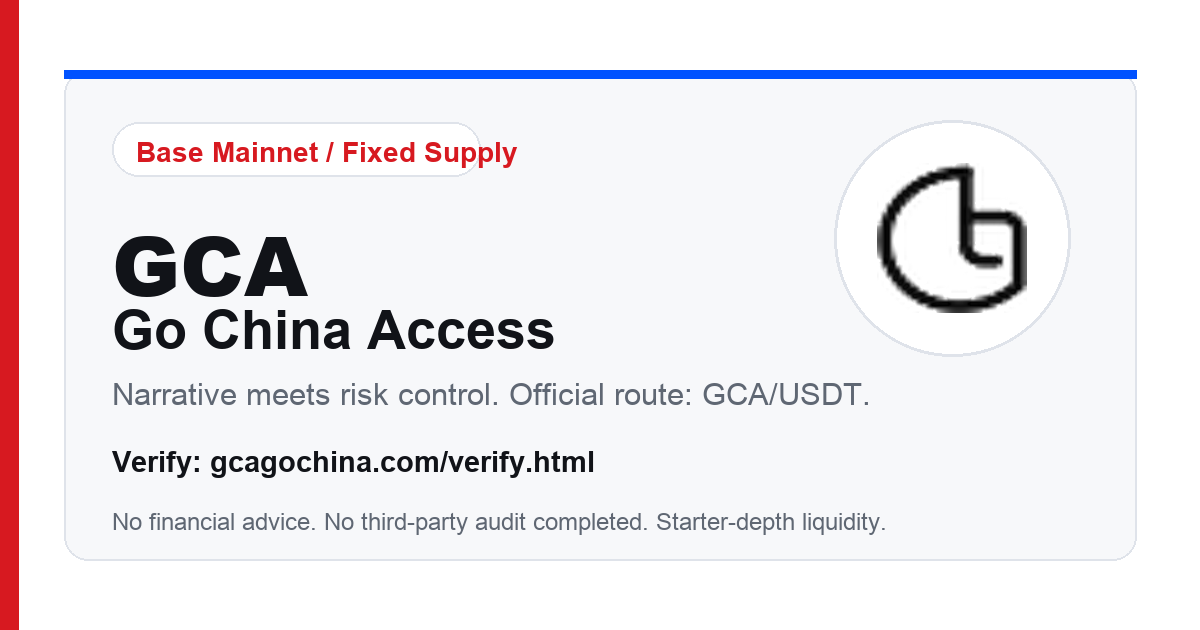
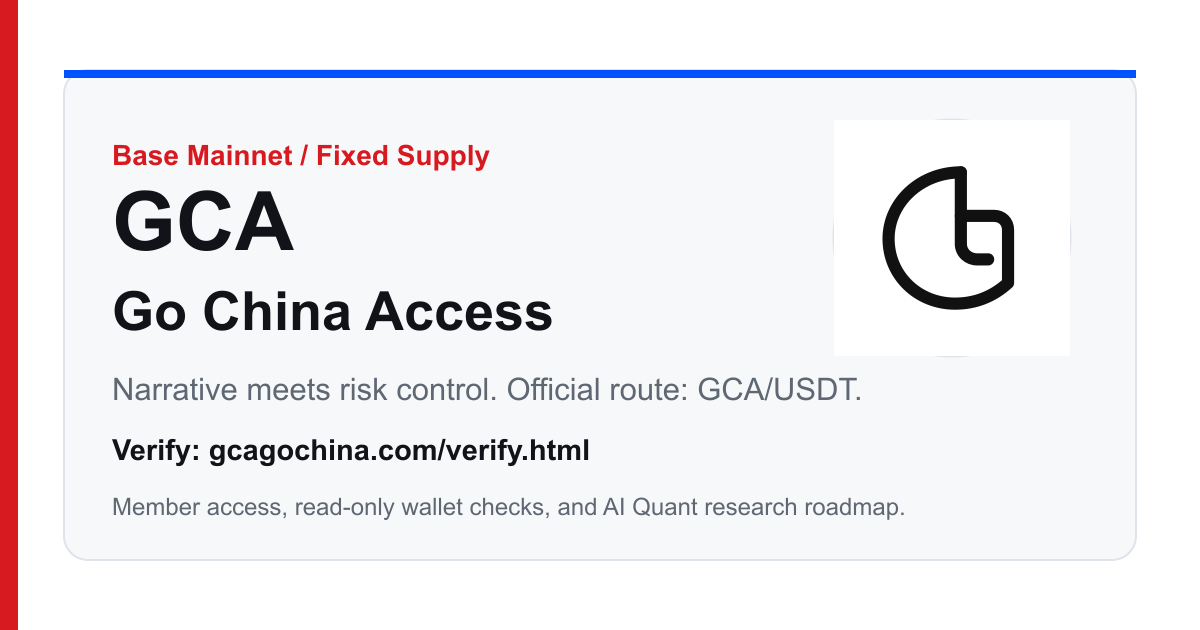
Refine public GCA site messaging

diff --git a/site/status.html b/site/status.html
@@ -389,14 +389,14 @@
           <span class="value good">Approved 2026-05-11</span>
         </div>
         <div class="fact">
-          <span class="label">BaseScan Profile</span>
-          <span class="value pending">Returned 2026-05-23; Handoff and Chinese owner flow ready for one [email redacted] submission</span>
+          <span class="label">Reviewer Package</span>
+          <span class="value good">Prepared with domain email evidence</span>
         </div>
       </section>
 
       <section class="section two" aria-label="Verification status">
         <div class="panel">
-          <h2>Completed</h2>
+          <h2>Live Now</h2>
           <div class="list">
             <div class="row"><span>Contract source verified on BaseScan</span><strong class="good">Done</strong></div>
             <div class="row"><span>Deployer-wallet ownership verified on BaseScan</span><strong class="good">Done</strong></div>
@@ -427,32 +427,29 @@
         </div>
 
         <div class="panel">
-          <h2>Still Pending</h2>
+          <h2>Next Buildout</h2>
           <div class="list">
-            <div class="row"><span>BaseScan public token profile publication</span><strong class="pending">Returned again 2026-05-23; BaseScan Handoff, Chinese owner flow, Tim Chen profile, and domain email evidence are ready for one owner resubmission from [email redacted]</strong></div>
+            <div class="row"><span><a href="basescan-handoff.html">BaseScan reviewer handoff</a></span><strong class="good">Prepared with official contact, market, supply, and evidence links</strong></div>
             <div class="row"><span><a href="tim-chen.html">Tim Chen professional profile</a></span><strong class="good">Published</strong></div>
-            <div class="row"><span><a href="domain-email.html">Domain email setup plan</a></span><strong class="pending">Published with public evidence checklist; [email redacted] is active. 2026-05-30 DNS snapshot: MX/SPF/DKIM/DMARC present.</strong></div>
-            <div class="row"><span><a href="domain-email-evidence.html">Domain email evidence checklist</a></span><strong class="pending">Published; private owner proof is retained for one clean BaseScan resubmission</strong></div>
-            <div class="row"><span><a href="basescan-preflight.html">BaseScan preflight gate</a></span><strong class="pending">Published; ready after domain email DNS, evidence packet, public email switch, and snapshot alignment passed</strong></div>
-            <div class="row"><span><a href="basescan-handoff.html">BaseScan Handoff</a></span><strong class="pending">Published; copyable reviewer comment, basic information, evidence links, market, and supply fields are ready</strong></div>
-            <div class="row"><span><a href="zh-basescan-submit.html">中文 BaseScan 提交流程</a></span><strong class="pending">Published; owner-only browser checklist, no wallet transaction, approve, swap, or contract operation needed</strong></div>
-            <div class="row"><span><a href="daily-status.html">Daily status action queue</a></span><strong class="pending">Current queue shows <code>ownerActionQueue</code>, <code>filesStillUsingOldEmail</code> as 0 tracked files, and the required order before final BaseScan preflight.</strong></div>
-            <div class="row"><span><a href="basescan-remediation.html">BaseScan remediation DNS gate</a></span><strong class="pending"><code>[email redacted]</code> mailbox activation, DNS authentication, and inbound/outbound evidence are ready; BaseScan publication is still pending review</strong></div>
-            <div class="row"><span>10,000 GCA member benefit transfer</span><strong class="pending">Manual review and reserve-wallet processing only</strong></div>
-            <div class="row"><span>Live trading or finished research product</span><strong class="pending">Not enabled</strong></div>
+            <div class="row"><span><a href="domain-email.html">Domain email profile</a></span><strong class="good">[email redacted] active; 2026-05-30 DNS snapshot: MX/SPF/DKIM/DMARC present</strong></div>
+            <div class="row"><span><a href="domain-email-evidence.html">Domain email evidence checklist</a></span><strong class="good">Published for platform reviewers</strong></div>
+            <div class="row"><span><a href="basescan-preflight.html">BaseScan preflight page</a></span><strong class="good">Published with evidence order and owner flow</strong></div>
+            <div class="row"><span><a href="zh-basescan-submit.html">中文 BaseScan 提交流程</a></span><strong class="good">Published for owner-side browser submission</strong></div>
+            <div class="row"><span><a href="daily-status.html">Daily status action queue</a></span><strong class="good">Published with owner action queue and public email alignment checks</strong></div>
+            <div class="row"><span><a href="member-benefit-transfer.html">10,000 GCA member benefit workflow</a></span><strong class="good">Published for reviewed reserve-wallet handling</strong></div>
+            <div class="row"><span><a href="release-gates.html">Product release gates</a></span><strong class="good">Published for staged AI Quant Access rollout</strong></div>
             <div class="row"><span>Wallet warning state after Blockaid report</span><strong class="good">Owner observed no warning visible 2026-05-14</strong></div>
-            <div class="row"><span><a href="wallet-warning.html">Wallet warning evidence page</a></span><strong class="pending">Published</strong></div>
-            <div class="row"><span><a href="external-reviews.html">External review status page</a></span><strong class="pending">Active</strong></div>
-            <div class="row"><span>CoinGecko tracked listing</span><strong class="pending">Not submitted</strong></div>
-            <div class="row"><span>CoinMarketCap tracked listing</span><strong class="pending">Not submitted</strong></div>
-            <div class="row"><span>Third-party audit report</span><strong class="pending">Deferred</strong></div>
+            <div class="row"><span><a href="wallet-warning.html">Wallet warning evidence page</a></span><strong class="good">Published</strong></div>
+            <div class="row"><span><a href="external-reviews.html">External review status page</a></span><strong class="good">Active</strong></div>
+            <div class="row"><span><a href="listing-readiness.html">Tracked listing readiness</a></span><strong class="good">Prepared for future platform outreach</strong></div>
+            <div class="row"><span><a href="audit-readiness.html">Audit-readiness scope</a></span><strong class="good">Prepared for future vendor review</strong></div>
           </div>
         </div>
       </section>
 
       <section class="section panel" aria-labelledby="marketTitle">
         <h2 id="marketTitle">Official Market Route</h2>
-        <p class="note">The current official public trading route is the Base Mainnet Uniswap v4 GCA/USDT pool. Liquidity is starter-depth only, so trades can have high price impact and slippage.</p>
+        <p class="note">The current official public trading route is the Base Mainnet Uniswap v4 GCA/USDT pool. Use the official market page and DEX tools to confirm pool address, quoted output, and route details before interacting.</p>
         <div class="list">
           <div class="row">
             <span><a href="markets.html">Official market page</a></span>
@@ -484,11 +481,11 @@
         </div>
         <div class="panel">
           <h3>Owner Reserve</h3>
-          <p class="note">600,000,000 GCA is held in the disclosed owner reserve wallet. It is a normal owner-controlled wallet, not a lock, vesting contract, or multisig.</p>
+          <p class="note">600,000,000 GCA is held in the disclosed owner reserve wallet and can be tracked from the published reserve statement.</p>
         </div>
         <div class="panel">
-          <h3>Audit</h3>
-          <p class="note">Internal review is complete. No third-party audit has been completed, and audit quote requests were deferred by owner decision.</p>
+          <h3>Review Materials</h3>
+          <p class="note">Internal review, technical report materials, and audit-readiness scope are published for users, reviewers, and future vendors.</p>
         </div>
       </section>
 
@@ -506,17 +503,16 @@
         </div>
       </section>
 
-      <section class="section panel warning" aria-labelledby="riskTitle">
-        <h2 id="riskTitle">Public Claim Boundaries</h2>
-        <ul>
-          <li>Do not say the BaseScan token profile is approved until BaseScan publishes it.</li>
-          <li>Do not say GCA is externally audited unless an independent audit report exists.</li>
-          <li>Do not describe liquidity as deep, stable, or sufficient for large trades.</li>
-          <li>Do not describe the owner reserve as locked, vested, or multisig-controlled.</li>
-          <li>Do not claim price support, yield, return promises, platform revenue distribution, custody, or automatic live trading permission.</li>
-          <li>Do not describe holder credits, GCA Member status, or the 10,000 GCA member benefit as cash, income, reimbursement, or a way to bypass Web3 Radar risk controls.</li>
-          <li>Use the member benefit transfer runbook for manual reserve-transfer language; do not describe the 10,000 GCA member benefit as automatic or self-service claimable.</li>
-        </ul>
+      <section class="section panel" aria-labelledby="riskTitle">
+        <h2 id="riskTitle">Reviewer and Support Resources</h2>
+        <p class="note">Use these pages when a platform, wallet reviewer, community moderator, or holder asks for source verification, market route, reserve, member workflow, or contact evidence.</p>
+        <div class="actions">
+          <a class="button" href="reviewer-kit.html">Reviewer Kit</a>
+          <a class="button" href="technical-report.html">Technical Report</a>
+          <a class="button" href="audit-readiness.html">Audit Readiness</a>
+          <a class="button" href="reserve-statement.html">Reserve Statement</a>
+          <a class="button" href="support.html">Support</a>
+        </div>
       </section>
     </main>
 

diff --git a/site/index.html b/site/index.html
@@ -459,7 +459,7 @@
           <h1 id="title">GCA</h1>
           <p class="lead">Narrative meets risk control for China-facing Web3 intelligence.</p>
           <p class="lead">GCA is a fixed-supply ERC-20 token on Base Mainnet exploring a simple idea: turn the Go China macro narrative into a recognizable access layer for Web3 Radar-style quant research, liquidation replay, backtesting, risk alerts, ENTRY_READY signal review, and position sizing.</p>
-          <p class="lead">The token, verified contract, reserve wallet, starter liquidity, public account UI, read-only wallet balance verification, and D1 ledger writes for eligible 100 credits / GCA Member review are live. Trading tools and the 10,000 GCA member benefit remain gated by support review and manual reserve-wallet processing.</p>
+          <p class="lead">The token, verified contract, reserve wallet, official GCA/USDT route, public account UI, read-only wallet balance verification, and D1 ledger writes for eligible 100 credits / GCA Member review are live. The next buildout focuses on research modules, member service workflow, and staged product access.</p>
           <div class="actions">
             <a class="button primary" href="start.html">Start Here</a>
             <a class="button primary" href="verify.html">Verify GCA</a>
@@ -474,7 +474,7 @@
         </div>
 
         <aside class="hero-card" aria-label="GCA status">
-          <img class="hero-art" src="assets/gca-social-card.png" alt="GCA Go China Access social preview">
+          <img class="hero-art" src="assets/gca-social-card.png?v=20260603" alt="GCA Go China Access social preview">
           <div class="logo-row">
             <img src="assets/gca-logo.svg" alt="GCA token mark">
             <div>
@@ -534,7 +534,7 @@
           <div class="section-card">
             <div>
               <h3>Buy Or Check The Pool</h3>
-              <p class="note">Use the official GCA/USDT route on Base. Current liquidity is starter-depth only, so small trades and strict slippage controls are safer than large market orders.</p>
+              <p class="note">Use the official GCA/USDT route on Base and review the pool details, quoted output, and wallet confirmation screen before every swap.</p>
             </div>
             <div class="link-row">
               <a class="text-link" href="buy.html">Buy Guide</a>
@@ -559,7 +559,7 @@
           <div class="section-card">
             <div>
               <h3>GCA Member Review</h3>
-              <p class="note">For planned GCA Member review, prepare evidence for one wallet buying and continuously holding at least 1,000,000 GCA for 30 days. The 10,000 GCA member benefit requires review and is not automatic.</p>
+              <p class="note">For planned GCA Member review, prepare evidence for one wallet buying and continuously holding at least 1,000,000 GCA for 30 days. Approved member-benefit records are handled through the published review workflow.</p>
             </div>
             <div class="link-row">
               <a class="text-link" href="member-benefit.html">Member Benefit</a>
@@ -587,7 +587,7 @@
           <div class="section-card">
             <div>
               <h3>Project Updates</h3>
-              <p class="note">Follow the public narrative, campaign calendar, and publishing desk for GCA content. These materials are market education and project communication, not financial advice.</p>
+              <p class="note">Follow the public narrative, campaign calendar, and publishing desk for GCA project content, weekly Go China Radar updates, and member-access announcements.</p>
             </div>
             <div class="link-row">
               <a class="text-link" href="radar.html">Weekly Radar</a>
@@ -667,8 +667,8 @@
         </div>
         <div class="panel">
           <h2>Product Release Gates</h2>
-          <p class="note">GCA now has a live account intake and ledger-recording path for the GCA AI Quant Access roadmap. Users can submit an email and Base wallet, run backend read-only balance verification, and create eligible 100 credits / GCA Member review records. Any trading-related feature still must pass risk-control review plus simulation or testnet first.</p>
-          <p class="note" style="margin-top: 14px;">This utility roadmap does not include platform revenue distribution, return guarantees, custody, or automatic live trading permissions. Utility credits, GCA Member status, and the planned 10,000 GCA member benefit are account-level records for reports, backtests, risk warnings, reviews, calculators, education, member research notes, priority support, and member benefit review only; they are not cash, income, reimbursement, or trading permission, and they are not a reason to bypass risk controls.</p>
+          <p class="note">GCA now has a live account intake and ledger-recording path for the GCA AI Quant Access roadmap. Users can submit an email and Base wallet, run backend read-only balance verification, and create eligible 100 credits / GCA Member review records.</p>
+          <p class="note" style="margin-top: 14px;">The utility roadmap centers on reports, backtests, risk warnings, ENTRY_READY reviews, calculators, education, member research notes, priority support, GCA Member status records, and member benefit review. Trading-related modules follow staged release gates before any wider product launch.</p>
           <div class="actions">
             <a class="button" href="credits.html">Credits Catalog</a>
             <a class="button" href="operations.html">Operations Runbook</a>
@@ -721,7 +721,7 @@
             <p class="eyebrow">Market References</p>
             <h2 id="marketsTitle">Official GCA/USDT Route</h2>
           </div>
-          <p class="note">These links are provided for verification and discovery. The official public trading route is the GCA/USDT pool on Base. The pool is shallow, so trades can have high price impact and slippage. Liquidity is still starter liquidity only.</p>
+          <p class="note">These links are provided for verification and discovery. The official public trading route is the GCA/USDT pool on Base, with DEX tools available for checking quoted output, pool details, and market references.</p>
         </div>
         <div class="list">
           <div class="row">
@@ -754,7 +754,7 @@
       <section class="section two" id="trust" aria-label="Trust and transparency">
         <div class="panel">
           <h2>Security &amp; Transparency</h2>
-          <p class="note">The contract source is verified on BaseScan and the repository includes tests and an internal engineering review. Third-party audit quote requests were submitted to QuillAudits, Hacken, and OpenZeppelin on 2026-05-10, then deferred by owner decision. No third-party audit has been completed.</p>
+          <p class="note">The contract source is verified on BaseScan and the repository includes tests, technical notes, and an internal engineering review. Audit-readiness materials remain available for future independent review when the project chooses to proceed.</p>
           <div class="grid" style="margin-top: 16px;">
             <div class="phase">
               <h3>Fixed Supply</h3>
@@ -766,7 +766,7 @@
             </div>
             <div class="phase">
               <h3>Audit Status</h3>
-              <p class="note">Internal review is complete, but it is not a third-party audit. GCA should not be described as audited, externally audited, or audit-approved.</p>
+              <p class="note">Internal review, technical report materials, and audit-readiness files are published for reviewers and future vendors.</p>
             </div>
           </div>
           <div class="actions">
@@ -784,7 +784,7 @@
             <div class="row"><span>Owner-held reserve</span><strong>600,000,000 GCA / 60%</strong></div>
             <div class="row"><span>Owner reserve wallet</span><strong>0x5e8F84748612B913aAcC937492AC25dc5630E246</strong></div>
           </div>
-          <p class="note" style="margin-top: 14px;">Reserve transfers: <a href="https://basescan.org/tx/0x4c342e1f4c969d0a73018637b778d5a76bd05f54749ff1fd2d19327fd5c01c67" target="_blank" rel="noreferrer">first transfer</a> and <a href="https://basescan.org/tx/0xfffb674448abdbd3af45bb0a30c48e5fbb0e675542b971f031381254b5dc5317" target="_blank" rel="noreferrer">second transfer</a>. This is a normal owner-controlled wallet, not a lock, vesting contract, or multisig.</p>
+          <p class="note" style="margin-top: 14px;">Reserve transfers: <a href="https://basescan.org/tx/0x4c342e1f4c969d0a73018637b778d5a76bd05f54749ff1fd2d19327fd5c01c67" target="_blank" rel="noreferrer">first transfer</a> and <a href="https://basescan.org/tx/0xfffb674448abdbd3af45bb0a30c48e5fbb0e675542b971f031381254b5dc5317" target="_blank" rel="noreferrer">second transfer</a>. The reserve wallet is disclosed so holders and reviewers can track it on-chain.</p>
           <div class="actions">
             <a class="button" href="supply.html">Supply</a>
             <a class="button" href="holder-distribution.html">Holder Distribution</a>
@@ -1057,8 +1057,8 @@
       </section>
 
       <section class="section notice" id="risk" aria-labelledby="riskTitle">
-        <h2 id="riskTitle">Risk Notice</h2>
-        <p class="note">GCA does not represent return guarantees, fee distributions, custody, or a right to redeem assets. The Web3 Radar utility bridge now has a controlled HTTPS member access page, read-only wallet verification, and D1 ledger records for eligible 100 credits / GCA Member review. The 10,000 GCA member benefit is manual review only, the project is early-stage, the current liquidity pool is small, and no third-party audit has been completed. Public materials should not describe GCA as externally audited, locked, price-backed, or yield-bearing.</p>
+        <h2 id="riskTitle">Official Verification</h2>
+        <p class="note">GCA public materials now connect the verified Base Mainnet contract, official GCA/USDT market route, disclosed reserve wallet, live member-access page, read-only wallet verification, D1 ledger records, and review-ready evidence pages from one website. Use the official links above when sharing GCA with users, communities, and platform reviewers.</p>
       </section>
     </main>
 

diff --git a/site/buy.html b/site/buy.html
@@ -467,7 +467,7 @@
         </div>
 
         <aside class="hero-card" aria-label="Official route summary">
-          <img class="hero-art" src="assets/gca-social-card.png" alt="GCA social preview card">
+          <img class="hero-art" src="assets/gca-social-card.png?v=20260603" alt="GCA social preview card">
           <div class="hero-meta">
             <span class="pill">Base Mainnet / chainId 8453</span>
             <div class="mini-grid" aria-label="Route facts">

diff --git a/site/liquidity.html b/site/liquidity.html
@@ -412,7 +412,7 @@
         </div>
 
         <aside class="hero-card" aria-label="Liquidity summary">
-          <img class="hero-art" src="assets/gca-social-card.png" alt="GCA social preview card">
+          <img class="hero-art" src="assets/gca-social-card.png?v=20260603" alt="GCA social preview card">
           <div class="hero-meta">
             <span class="pill">Base Mainnet / 8453</span>
             <div class="mini-grid" aria-label="Liquidity facts">

diff --git a/site/market-quality.html b/site/market-quality.html
@@ -424,7 +424,7 @@
         </div>
 
         <aside class="hero-card" aria-label="Market quality summary">
-          <img class="hero-art" src="assets/gca-social-card.png" alt="GCA social preview card">
+          <img class="hero-art" src="assets/gca-social-card.png?v=20260603" alt="GCA social preview card">
           <div class="hero-meta">
             <span class="pill">Base Mainnet / GCA/USDT</span>
             <div class="mini-grid" aria-label="Quality facts">

diff --git a/site/trust.html b/site/trust.html
@@ -420,7 +420,7 @@
         </div>
 
         <aside class="hero-card" aria-label="GCA trust summary">
-          <img class="hero-art" src="assets/gca-social-card.png" alt="GCA Go China Access official social card">
+          <img class="hero-art" src="assets/gca-social-card.png?v=20260603" alt="GCA Go China Access official social card">
           <div class="hero-meta">
             <div class="hero-row"><span>Network</span><strong>Base Mainnet / 8453</strong></div>
             <div class="hero-row"><span>Market</span><strong>GCA/USDT</strong></div>

diff --git a/tests/test_launch_package.py b/tests/test_launch_package.py
@@ -2536,7 +2536,7 @@ class LaunchPackageTests(unittest.TestCase):
         self.assertIn("member-benefit-transfer.html", site)
         self.assertIn("Operator Console", site)
         self.assertIn("GCA Member status", site)
-        self.assertIn("not cash, income, reimbursement, or trading permission", site)
+        self.assertIn("member benefit review. Trading-related modules follow staged release gates", site)
         self.assertIn("400,000,000 GCA / 40%", site)
         self.assertIn("600,000,000 GCA / 60%", site)
         self.assertIn("exact circulating supply should still be verified", site)
@@ -2549,15 +2549,14 @@ class LaunchPackageTests(unittest.TestCase):
         self.assertIn("Project contact email", site)
         self.assertNotIn("https://x.com/GCAgochina", site)
         self.assertIn("Official X", site)
-        self.assertIn("No third-party audit has been completed", site)
         self.assertIn("Security &amp; Transparency", site)
-        self.assertIn("Third-party audit quote requests were submitted to QuillAudits, Hacken, and OpenZeppelin on 2026-05-10", site)
-        self.assertIn("then deferred by owner decision", site)
+        self.assertIn("Audit-readiness materials remain available for future independent review", site)
+        self.assertIn("Internal review, technical report materials, and audit-readiness files are published", site)
         self.assertIn("no post-deployment mint function", site)
         self.assertIn("no owner/admin role", site)
         self.assertIn("no owner/admin role, proxy or upgrade path, pause switch, blacklist, transfer tax, hidden fee, custody, or withdrawal path", site)
-        self.assertIn("pool is shallow", site)
-        self.assertIn("high price impact and slippage", site)
+        self.assertIn("DEX tools available for checking quoted output, pool details, and market references", site)
+        self.assertIn("review the pool details, quoted output, and wallet confirmation screen", site)
         self.assertIn(OFFICIAL_POOL_ADDRESS, site)
         self.assertIn(OFFICIAL_UNISWAP_POOL_URL, site)
         self.assertIn("Market References", site)
@@ -2567,7 +2566,7 @@ class LaunchPackageTests(unittest.TestCase):
         self.assertIn(OFFICIAL_SWAP_URL_HTML, site)
         self.assertIn("GeckoTerminal token information was approved on 2026-05-11", site)
         self.assertNotIn(OLD_WETH_POOL_ADDRESS, site)
-        self.assertIn("starter liquidity only", site)
+        self.assertIn("official GCA/USDT route", site)
 
     def test_members_page_supports_local_pre_registration_safely(self):
         members = (ROOT / "site" / "members.html").read_text()
@@ -5567,23 +5566,24 @@ class LaunchPackageTests(unittest.TestCase):
         self.assertIn(OFFICIAL_DEXSCREENER_URL, status)
         self.assertIn(OFFICIAL_SWAP_URL_HTML, status)
         self.assertIn("Approved 2026-05-11", status)
-        self.assertIn("Returned 2026-05-23", status)
-        self.assertIn("BaseScan Handoff, Chinese owner flow, Tim Chen profile, and domain email evidence are ready for one owner resubmission from [email redacted]", status)
-        self.assertIn("BaseScan Handoff", status)
+        self.assertIn("Reviewer Package", status)
+        self.assertIn("Prepared with domain email evidence", status)
+        self.assertIn("Next Buildout", status)
+        self.assertIn("BaseScan reviewer handoff", status)
+        self.assertIn("Prepared with official contact, market, supply, and evidence links", status)
         self.assertIn("中文 BaseScan 提交流程", status)
-        self.assertIn("no wallet transaction, approve, swap, or contract operation needed", status)
-        self.assertIn("2026-05-30 DNS snapshot: MX/SPF/DKIM/DMARC present", status)
-        self.assertIn("BaseScan remediation DNS gate", status)
-        self.assertIn("ready after domain email DNS, evidence packet, public email switch, and snapshot alignment passed", status)
-        self.assertIn("BaseScan public token profile publication", status)
+        self.assertIn("Published for owner-side browser submission", status)
+        self.assertIn("[email redacted] active; 2026-05-30 DNS snapshot: MX/SPF/DKIM/DMARC present", status)
+        self.assertIn("Published with evidence order and owner flow", status)
+        self.assertIn("Published with owner action queue and public email alignment checks", status)
         self.assertIn("Wallet warning state after Blockaid report", status)
         self.assertIn("Wallet warning evidence page", status)
         self.assertIn("External review status page", status)
         self.assertIn("Trust center page", status)
         self.assertIn("On-chain proofs page", status)
         self.assertIn("Brand Kit", status)
-        self.assertIn("CoinGecko tracked listing", status)
-        self.assertIn("CoinMarketCap tracked listing", status)
+        self.assertIn("Tracked listing readiness", status)
+        self.assertIn("Audit-readiness scope", status)
         self.assertIn('href="listing-readiness.html"', status)
         self.assertIn('href="market-quality.html"', status)
         self.assertIn('href="wallet-warning.html"', status)
@@ -5600,15 +5600,14 @@ class LaunchPackageTests(unittest.TestCase):
         self.assertIn('href="terms.html"', status)
         self.assertIn('href="product.html"', status)
         self.assertIn("GCA AI Quant Access product spec", status)
-        self.assertIn("No third-party audit has been completed", status)
         self.assertIn("600,000,000 GCA", status)
-        self.assertIn("normal owner-controlled wallet", status)
-        self.assertIn("Do not say the BaseScan token profile is approved", status)
-        self.assertIn("Do not say GCA is externally audited", status)
-        self.assertIn("Do not describe liquidity as deep", status)
-        self.assertIn("Do not claim price support", status)
-        self.assertIn("member benefit transfer runbook", status)
-        self.assertIn("automatic or self-service claimable", status)
+        self.assertIn("published reserve statement", status)
+        self.assertIn("Review Materials", status)
+        self.assertIn("Reviewer and Support Resources", status)
+        self.assertIn('href="reviewer-kit.html"', status)
+        self.assertIn('href="technical-report.html"', status)
+        self.assertIn('href="audit-readiness.html"', status)
+        self.assertIn('href="reserve-statement.html"', status)
         self.assertNotIn(OLD_WETH_POOL_ADDRESS, status)
 
         self.assertIn('href="listing-readiness.html"', index)

diff --git a/tools/check_public_site.py b/tools/check_public_site.py
@@ -649,19 +649,18 @@ def validate_status_page(text: str) -> None:
     assert_contains(text, "Daily public status snapshot", label)
     assert_contains(text, "Published with BaseScan owner action queue", label)
     assert_contains(text, "Daily status action queue", label)
-    assert_contains(text, "ownerActionQueue", label)
-    assert_contains(text, "filesStillUsingOldEmail", label)
-    assert_contains(text, "0 tracked files", label)
+    assert_contains(text, "Published with owner action queue and public email alignment checks", label)
     assert_contains(text, "中文入口", label)
     assert_contains(text, "zh-cn.html", label)
     assert_contains(text, "Contract source verified on BaseScan", label)
     assert_contains(text, "Deployer-wallet ownership verified on BaseScan", label)
-    assert_contains(text, "BaseScan public token profile publication", label)
-    assert_contains(text, "Returned 2026-05-23; Handoff and Chinese owner flow ready for one [email redacted] submission", label)
-    assert_contains(text, "BaseScan Handoff, Chinese owner flow, Tim Chen profile, and domain email evidence are ready for one owner resubmission from [email redacted]", label)
-    assert_contains(text, "BaseScan Handoff", label)
+    assert_contains(text, "Reviewer Package", label)
+    assert_contains(text, "Prepared with domain email evidence", label)
+    assert_contains(text, "Next Buildout", label)
+    assert_contains(text, "BaseScan reviewer handoff", label)
+    assert_contains(text, "Prepared with official contact, market, supply, and evidence links", label)
     assert_contains(text, "中文 BaseScan 提交流程", label)
-    assert_contains(text, "no wallet transaction, approve, swap, or contract operation needed", label)
+    assert_contains(text, "Published for owner-side browser submission", label)
     assert_contains_any(
         text,
         (
@@ -672,19 +671,20 @@ def validate_status_page(text: str) -> None:
         label,
         "domain email DNS snapshot status",
     )
-    assert_contains(text, "BaseScan remediation DNS gate", label)
-    assert_contains(text, "mailbox activation, DNS authentication, and inbound/outbound evidence are ready", label)
+    assert_contains(text, "[email redacted] active", label)
     assert_contains(text, "Domain email evidence checklist", label)
     assert_contains(text, "domain-email-evidence.html", label)
-    assert_contains(text, "public evidence checklist", label)
+    assert_contains(text, "Published for platform reviewers", label)
     assert_contains(text, "team.html", label)
     assert_contains(text, "tim-chen.html", label)
     assert_contains(text, "basescan-remediation.html", label)
     assert_contains(text, "basescan-preflight.html", label)
     assert_contains(text, "GeckoTerminal token information update", label)
     assert_contains(text, "Approved", label)
-    assert_contains(text, "No third-party audit has been completed", label)
-    assert_contains(text, "Do not say the BaseScan token profile is approved", label)
+    assert_contains(text, "Audit-readiness scope", label)
+    assert_contains(text, "Reviewer and Support Resources", label)
+    assert_contains(text, "audit-readiness.html", label)
+    assert_contains(text, "reserve-statement.html", label)
     assert_contains(text, MAINNET_ADDRESS, label)
     assert_contains(text, BASE_USDT_ADDRESS, label)
     assert_contains(text, OFFICIAL_GECKOTERMINAL_URL, label)